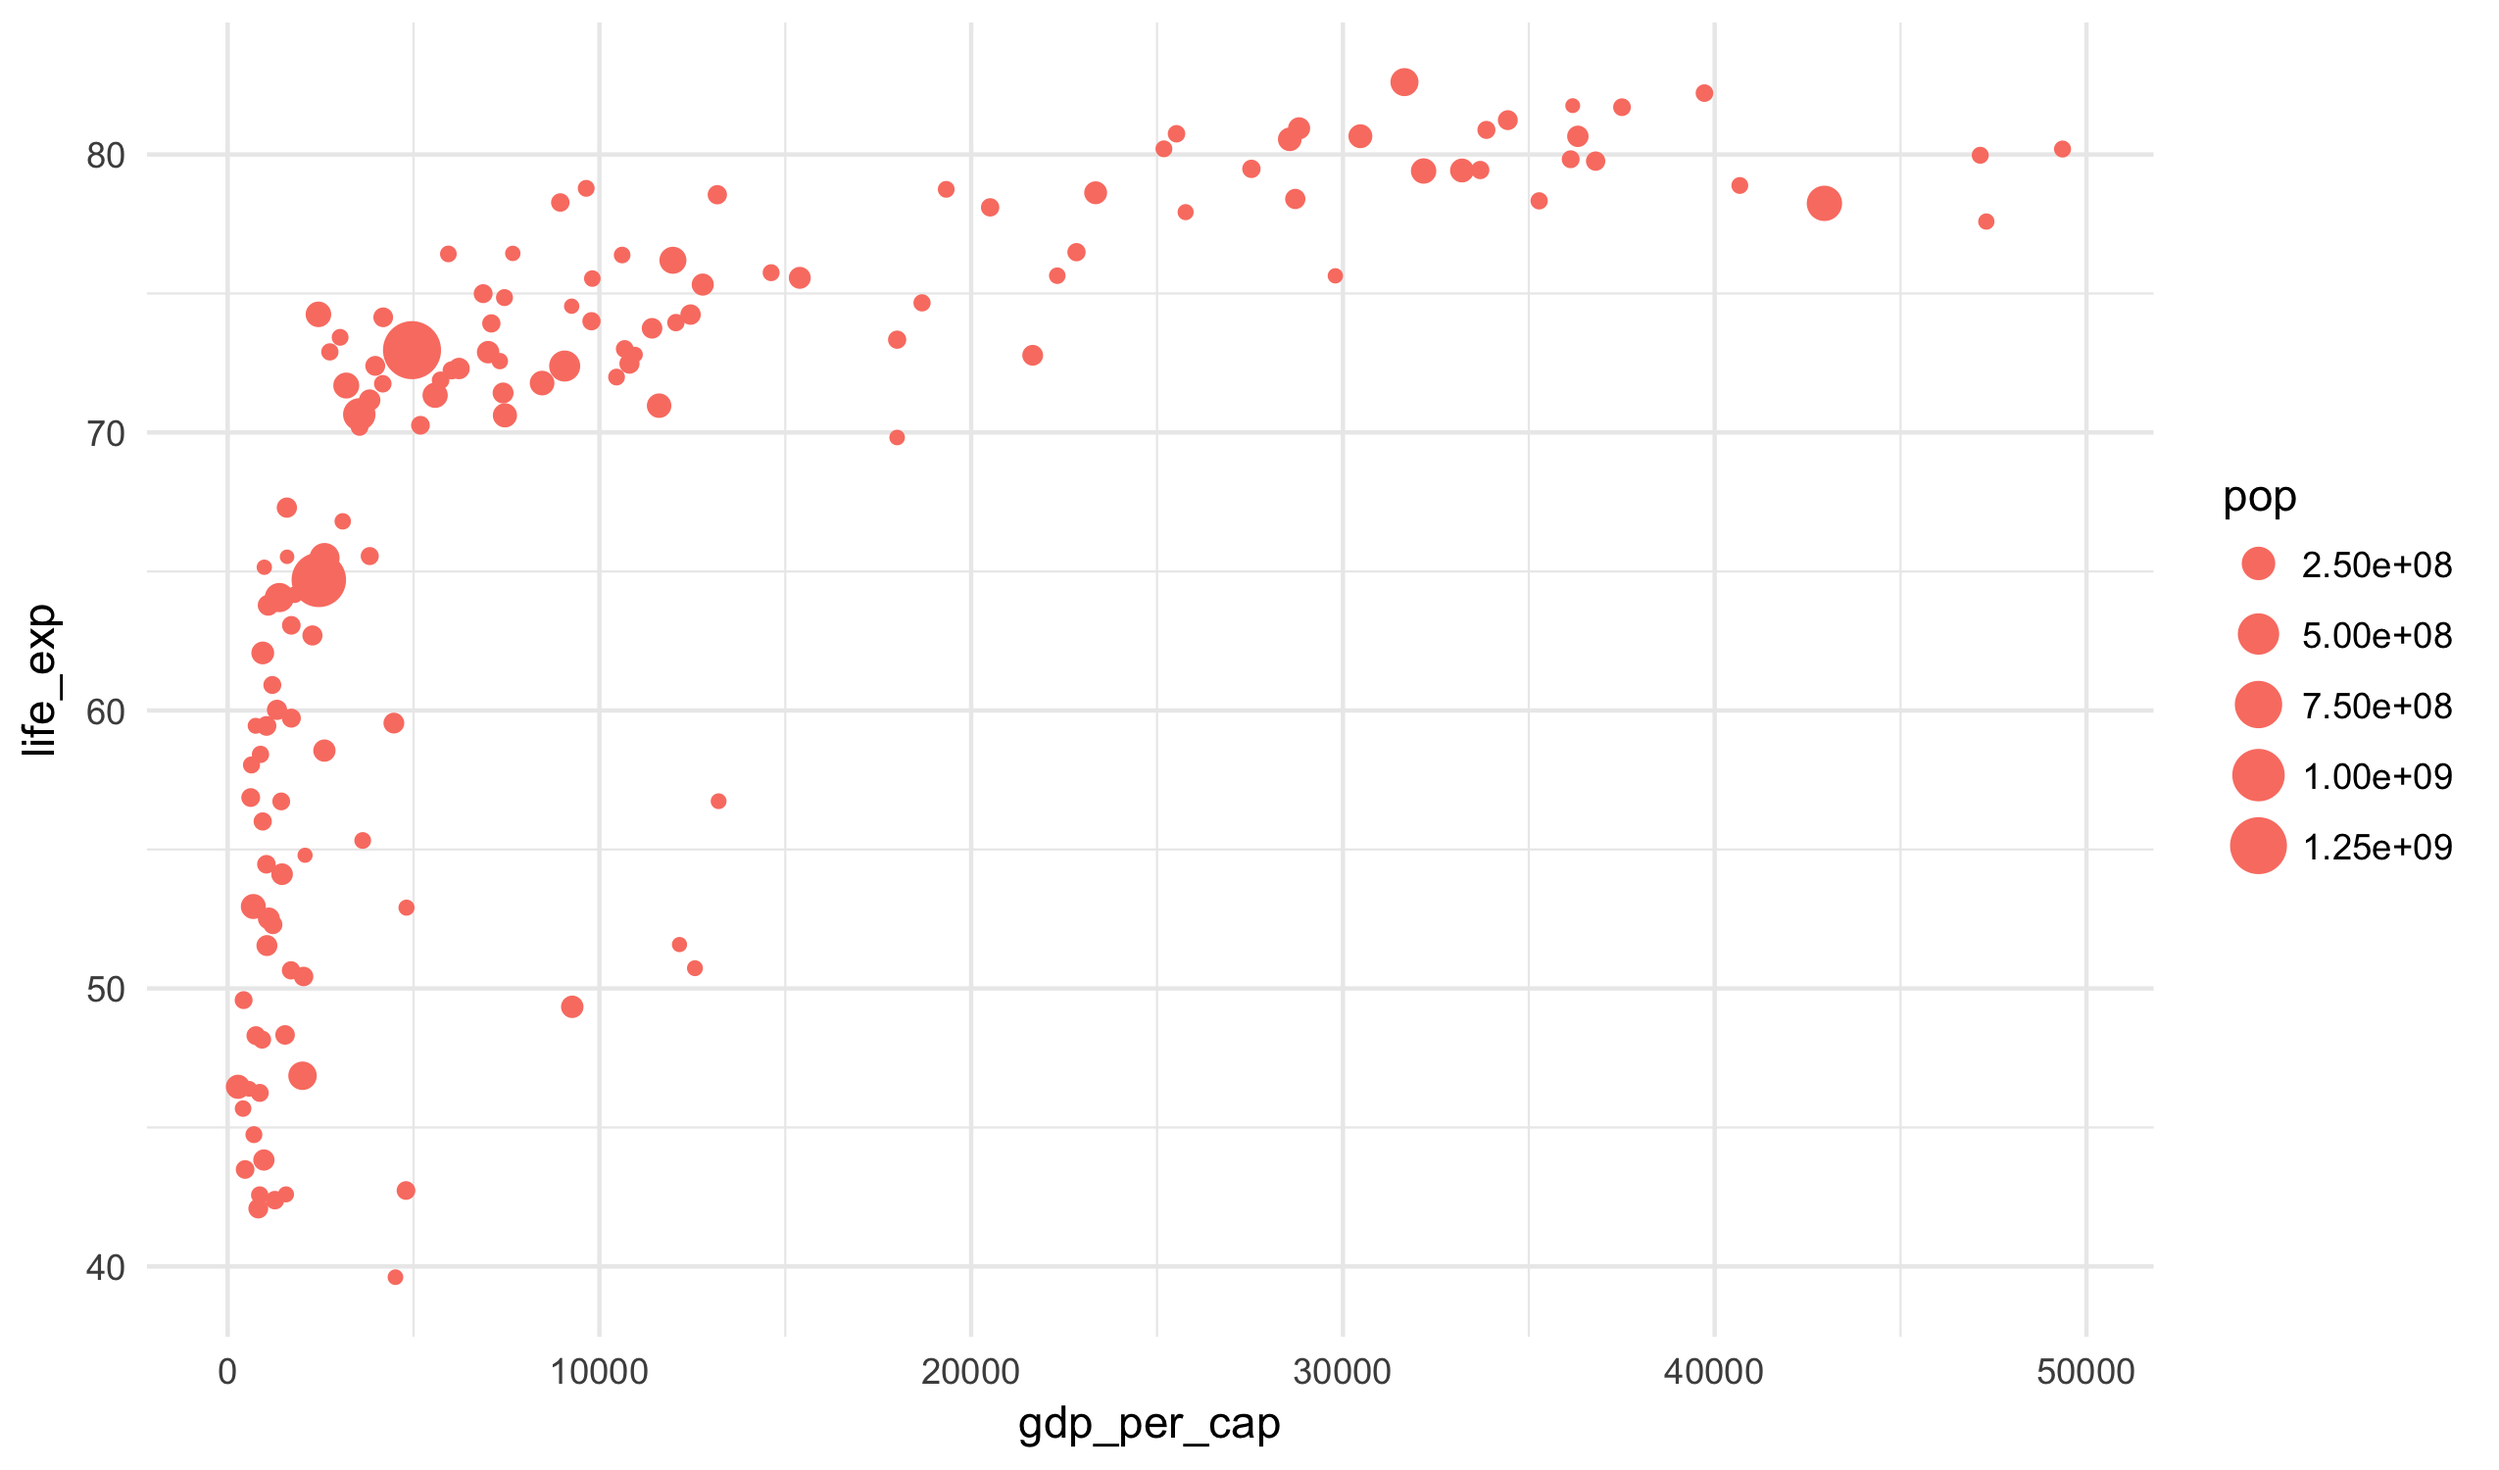
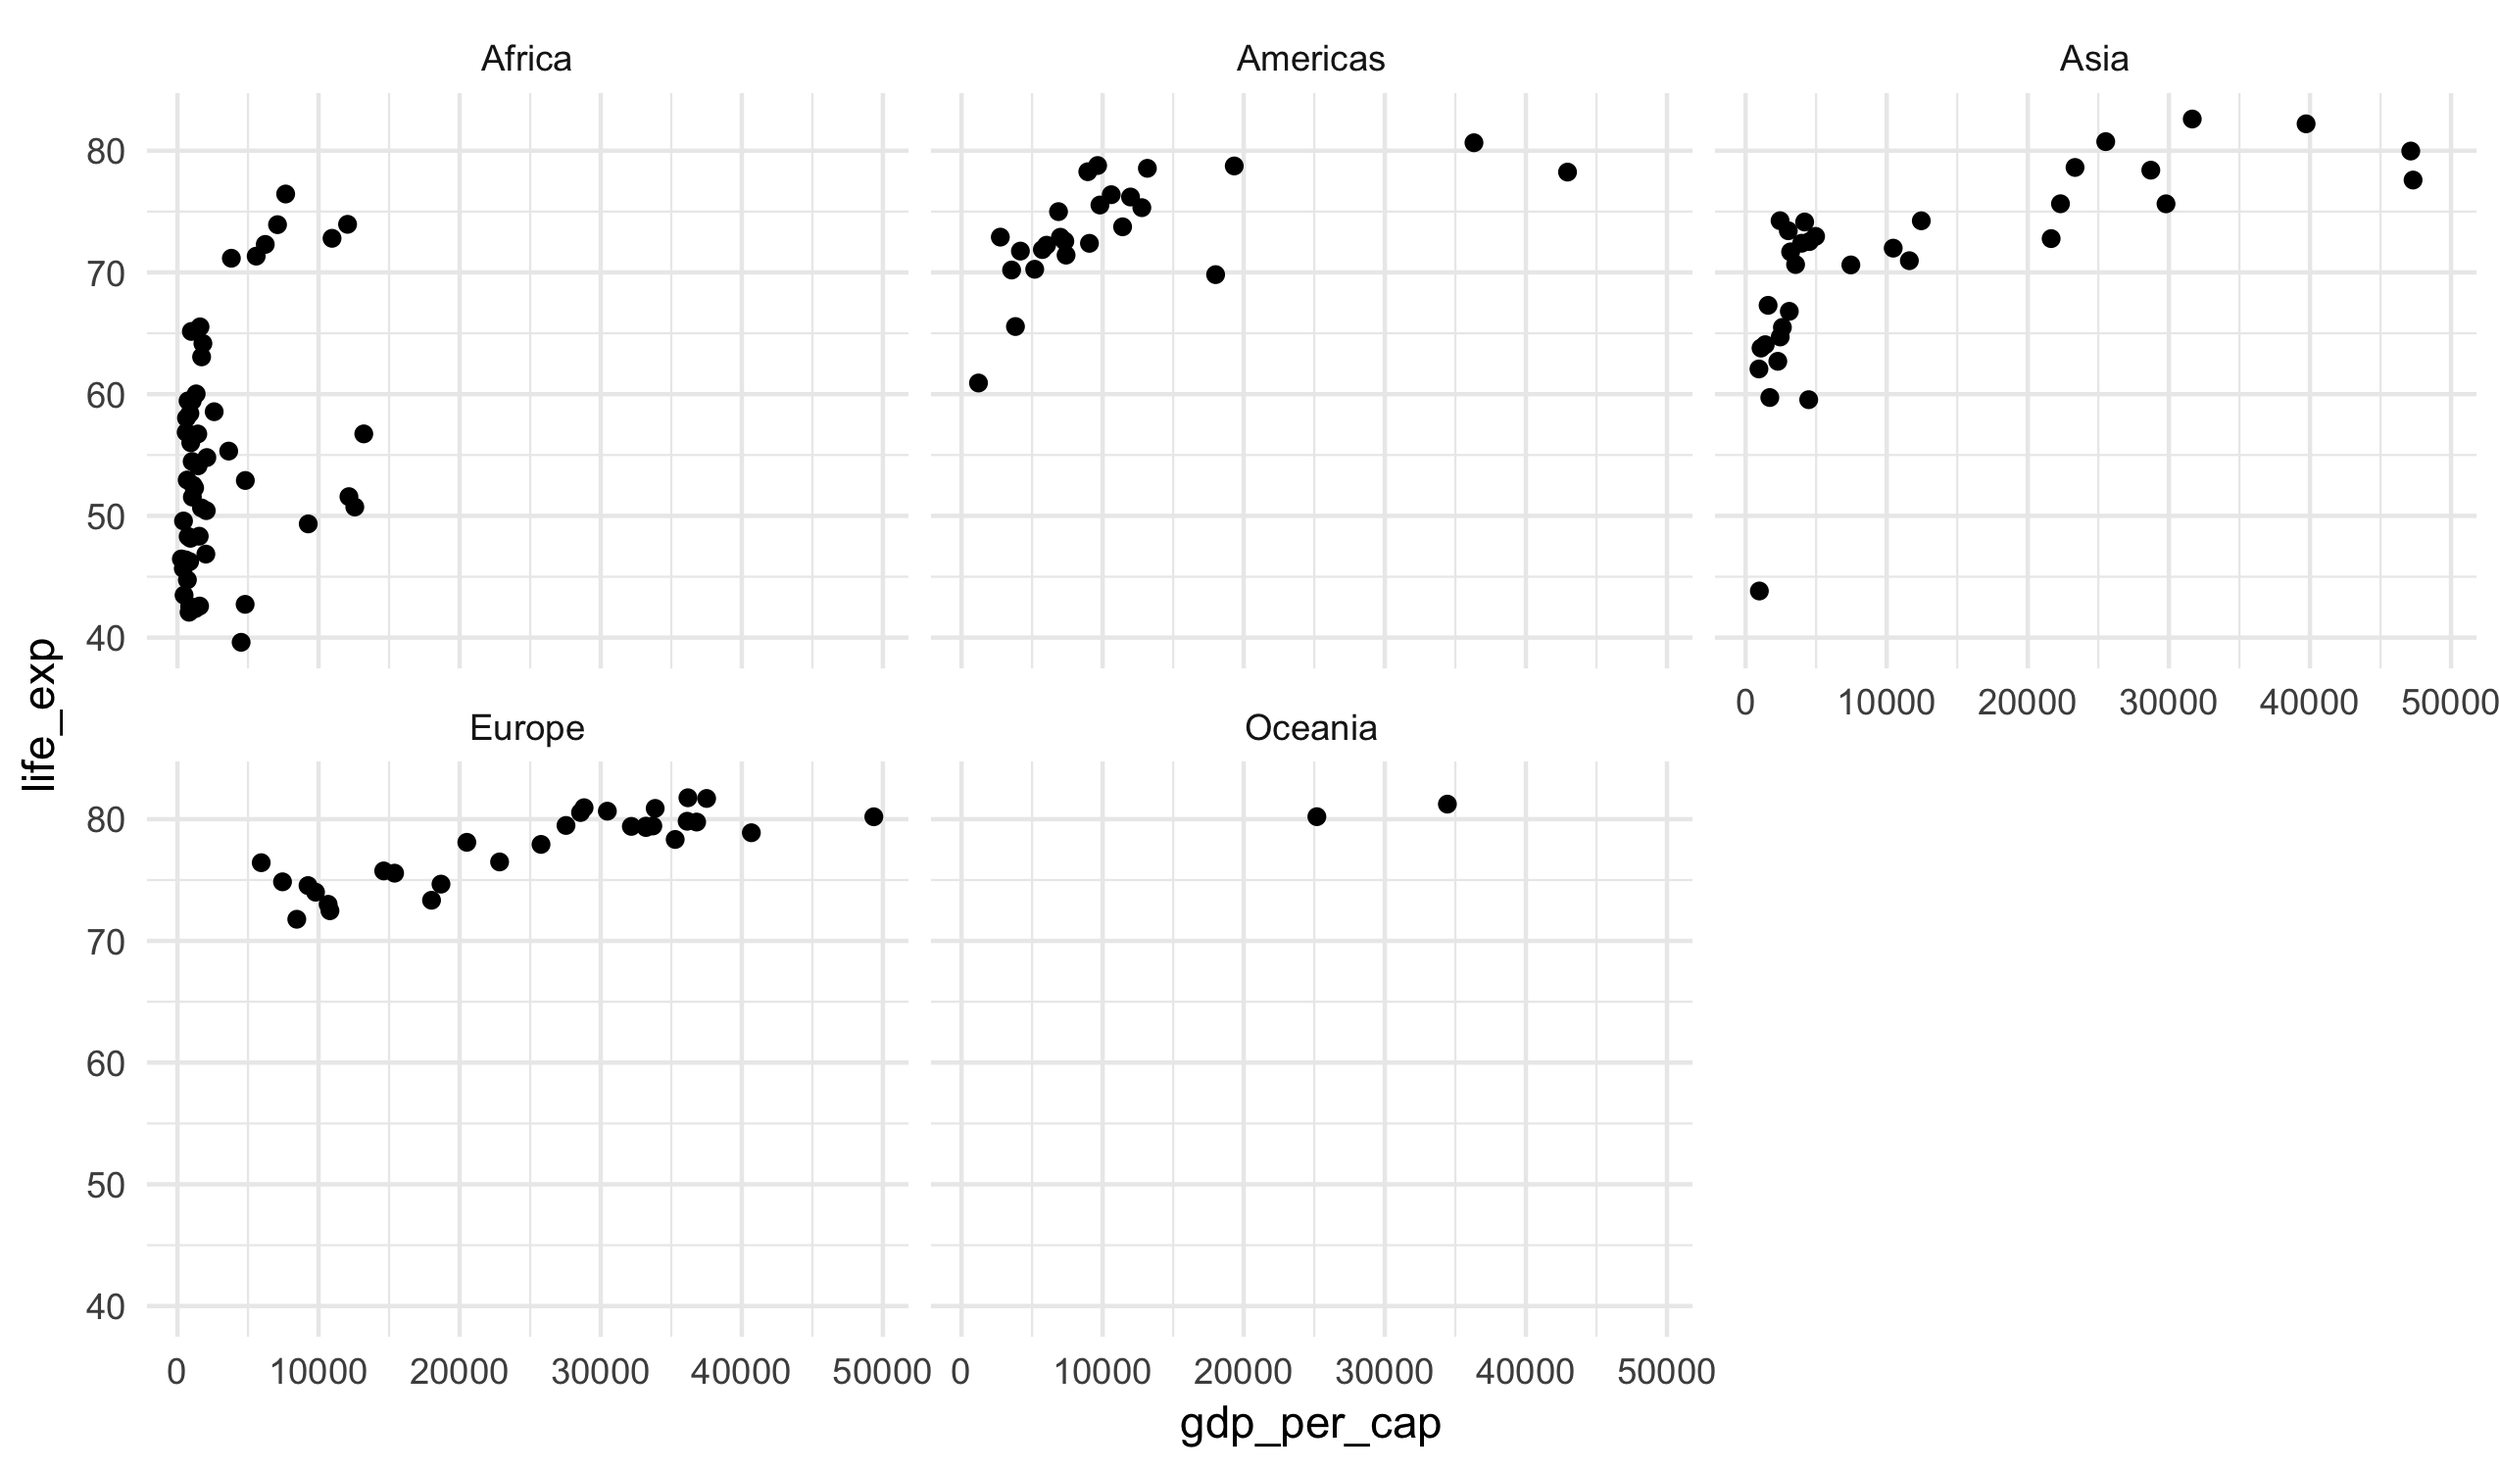
update notes

diff --git a/index.html b/index.html
@@ -28,6 +28,7 @@ Syllabus: <a href="assets/syllabus/STAT209_Syllabus.pdf">STAT209_Syllabus.pdf</a
     <li><strong>Class 07</strong>&nbsp;&nbsp;<a href="/stat209/notes/class07-markdown-project-a">RMarkdown and Project A</a></li>
     <li><strong>Class 08</strong>&nbsp;&nbsp;<a href="/stat209/notes/class08-grammar-of-graphics">The Grammar of Graphics</a></li>
     <li><strong>Class 09</strong>&nbsp;&nbsp;<a href="/stat209/notes/class09-viz-annotation">Annotating Data Visualizations</a></li>
+    <li><strong>Class 10</strong>&nbsp;&nbsp;<a href="/stat209/notes/class10-viz-layers">Further Visualization Layers</a></li>
 <!--<li><strong>Class 04</strong>&nbsp;&nbsp;<a href="/stat209/notes/class04-statistical-modelling">Statistical Modelling</a></li>
     <li><strong>Class 05</strong>&nbsp;&nbsp;<a href="/stat209/notes/class05-introduction-r">Introduction to R</a></li>
     <li><strong>Class 06</strong>&nbsp;&nbsp;<a href="/stat209/notes/class06-data-basics">Data Basics</a></li>

diff --git a/_notes/class10-viz-layers.md b/_notes/class10-viz-layers.md
@@ -1,0 +1,188 @@
+---
+title: "Further Visualization Layers"
+author: "Taylor Arnold"
+output: html_notebook
+---
+
+
+
+
+
+### Learning Objectives
+
+Today we'll cover several remaining layer types and examples in the grammar of
+graphics.
+
+### GapMinder Data
+
+For the final time, we'll make use the gapminder dataset:
+
+
+{% highlight r %}
+gapminder_2007 <- read_csv("https://statsmaths.github.io/stat_data/gapminder_2007.csv")
+{% endhighlight %}
+
+### Facets
+
+A special layer type within the **ggplot2** framework, facets allow us
+to produce many small plots for each value of a character variable. It
+can be added onto almost any other plot.
+
+
+{% highlight r %}
+ggplot(gapminder_2007, aes(gdp_per_cap, life_exp)) +
+  geom_point() +
+  facet_wrap(~continent)
+{% endhighlight %}
+
+<img src="../assets/class09-viz-annotation/unnamed-chunk-3-1.png" title="plot of chunk unnamed-chunk-3" alt="plot of chunk unnamed-chunk-3" width="100%" />
+
+Notice that the scales of the axes are all the same. Sometimes this is
+useful, but in other cases it is useful to allow these to change. We
+can do this by adding the option `scales="free"`:
+
+
+{% highlight r %}
+ggplot(gapminder_2007, aes(gdp_per_cap, life_exp)) +
+  geom_point() +
+  facet_wrap(~continent, scales = "free") + scale_color_viridis(option = "A")
+{% endhighlight %}
+
+<img src="../assets/class09-viz-annotation/unnamed-chunk-4-1.png" title="plot of chunk unnamed-chunk-4" alt="plot of chunk unnamed-chunk-4" width="100%" />
+
+There are also options `scales="free_x"` and `scales="free_y"` if you
+would like to only allow one axis to change.
+
+### Scales
+
+Another layer type are scales. These control the exact way that aesthetics
+are mapped to visual features. For example, we have seen that we can change
+the color pallet used with the **viridis** package:
+
+
+{% highlight r %}
+ggplot(gapminder_2007, aes(gdp_per_cap, life_exp)) +
+  geom_point(aes(color = life_exp)) +
+  scale_color_viridis()
+{% endhighlight %}
+
+<img src="../assets/class09-viz-annotation/unnamed-chunk-5-1.png" title="plot of chunk unnamed-chunk-5" alt="plot of chunk unnamed-chunk-5" width="100%" />
+
+Similarly, we can add `scale_x_log10()` and/or `scale_y_log10()` to plot
+values on the logarithmic scale:
+
+
+{% highlight r %}
+ggplot(gapminder_2007, aes(gdp_per_cap, life_exp)) +
+  geom_point(aes(color = life_exp)) +
+  scale_color_viridis() +
+  scale_x_log10(breaks = c(500, 5000, 50000))
+{% endhighlight %}
+
+<img src="../assets/class09-viz-annotation/unnamed-chunk-6-1.png" title="plot of chunk unnamed-chunk-6" alt="plot of chunk unnamed-chunk-6" width="100%" />
+
+There are a lot of things you can do with the scale functions by changing
+the default options:
+
+
+{% highlight r %}
+ggplot(gapminder_2007, aes(gdp_per_cap, life_exp)) +
+  geom_point(aes(color = life_exp)) +
+  scale_color_viridis() +
+  scale_x_log10(breaks = c(500, 5000, 50000)) +
+  scale_y_continuous(breaks = c(40, 60, 80))
+{% endhighlight %}
+
+<img src="../assets/class09-viz-annotation/unnamed-chunk-7-1.png" title="plot of chunk unnamed-chunk-7" alt="plot of chunk unnamed-chunk-7" width="100%" />
+
+I won't quiz you on the details of these, but look back to these notes when
+you find ourself wanting to do something with the scales or range of the
+plot.
+
+### Interactive plots
+
+There exists a very handy package called **plotly** for making interactive
+plots from **ggplot2** graphics. Simply load the package:
+
+
+{% highlight r %}
+library(plotly)
+{% endhighlight %}
+
+
+
+{% highlight text %}
+## 
+## Attaching package: 'plotly'
+{% endhighlight %}
+
+
+
+{% highlight text %}
+## The following object is masked from 'package:ggplot2':
+## 
+##     last_plot
+{% endhighlight %}
+
+
+
+{% highlight text %}
+## The following object is masked from 'package:stats':
+## 
+##     filter
+{% endhighlight %}
+
+
+
+{% highlight text %}
+## The following object is masked from 'package:graphics':
+## 
+##     layout
+{% endhighlight %}
+
+Then, in order to make an interactive plot just call `ggplotly` after the
+plot has been made:
+
+
+{% highlight r %}
+ggplot(gapminder_2007, aes(gdp_per_cap, life_exp)) +
+  geom_point(aes(color = continent, size = pop)) +
+  scale_x_log10(breaks = c(500, 5000, 50000)) +
+  scale_y_continuous(breaks = c(40, 60, 80))
+
+ggplotly()
+{% endhighlight %}
+
+If you scroll over the points, you will be able to see any variables mapped
+to an aesthetic. The difficulty here is that you will not see variables that
+are not mapped to an aesthetic.
+
+
+{% highlight r %}
+ggplot(gapminder_2007, aes(gdp_per_cap, life_exp, fake = country)) +
+  geom_point(aes(color = continent, size = pop)) +
+  scale_x_log10(breaks = c(500, 5000, 50000)) +
+  scale_y_continuous(breaks = c(40, 60, 80))
+
+ggplotly()
+{% endhighlight %}
+
+Such interactive plots are, as you can image, excellent for exploratory analyses.
+However, they do become clunky when working with large datasets and are often
+not ideal for integration into a paper or presentation.
+
+### Practice
+
+For today's class, we will work on lab10:
+<a href="https://raw.githubusercontent.com/statsmaths/stat209/master/labs/lab10.Rmd" download="lab10.Rmd" target="_blank">lab10.Rmd</a>.
+
+Upload your script (no need to include the HTML file) to GitHub ahead of the
+next class.
+
+
+
+
+
+
+
+
